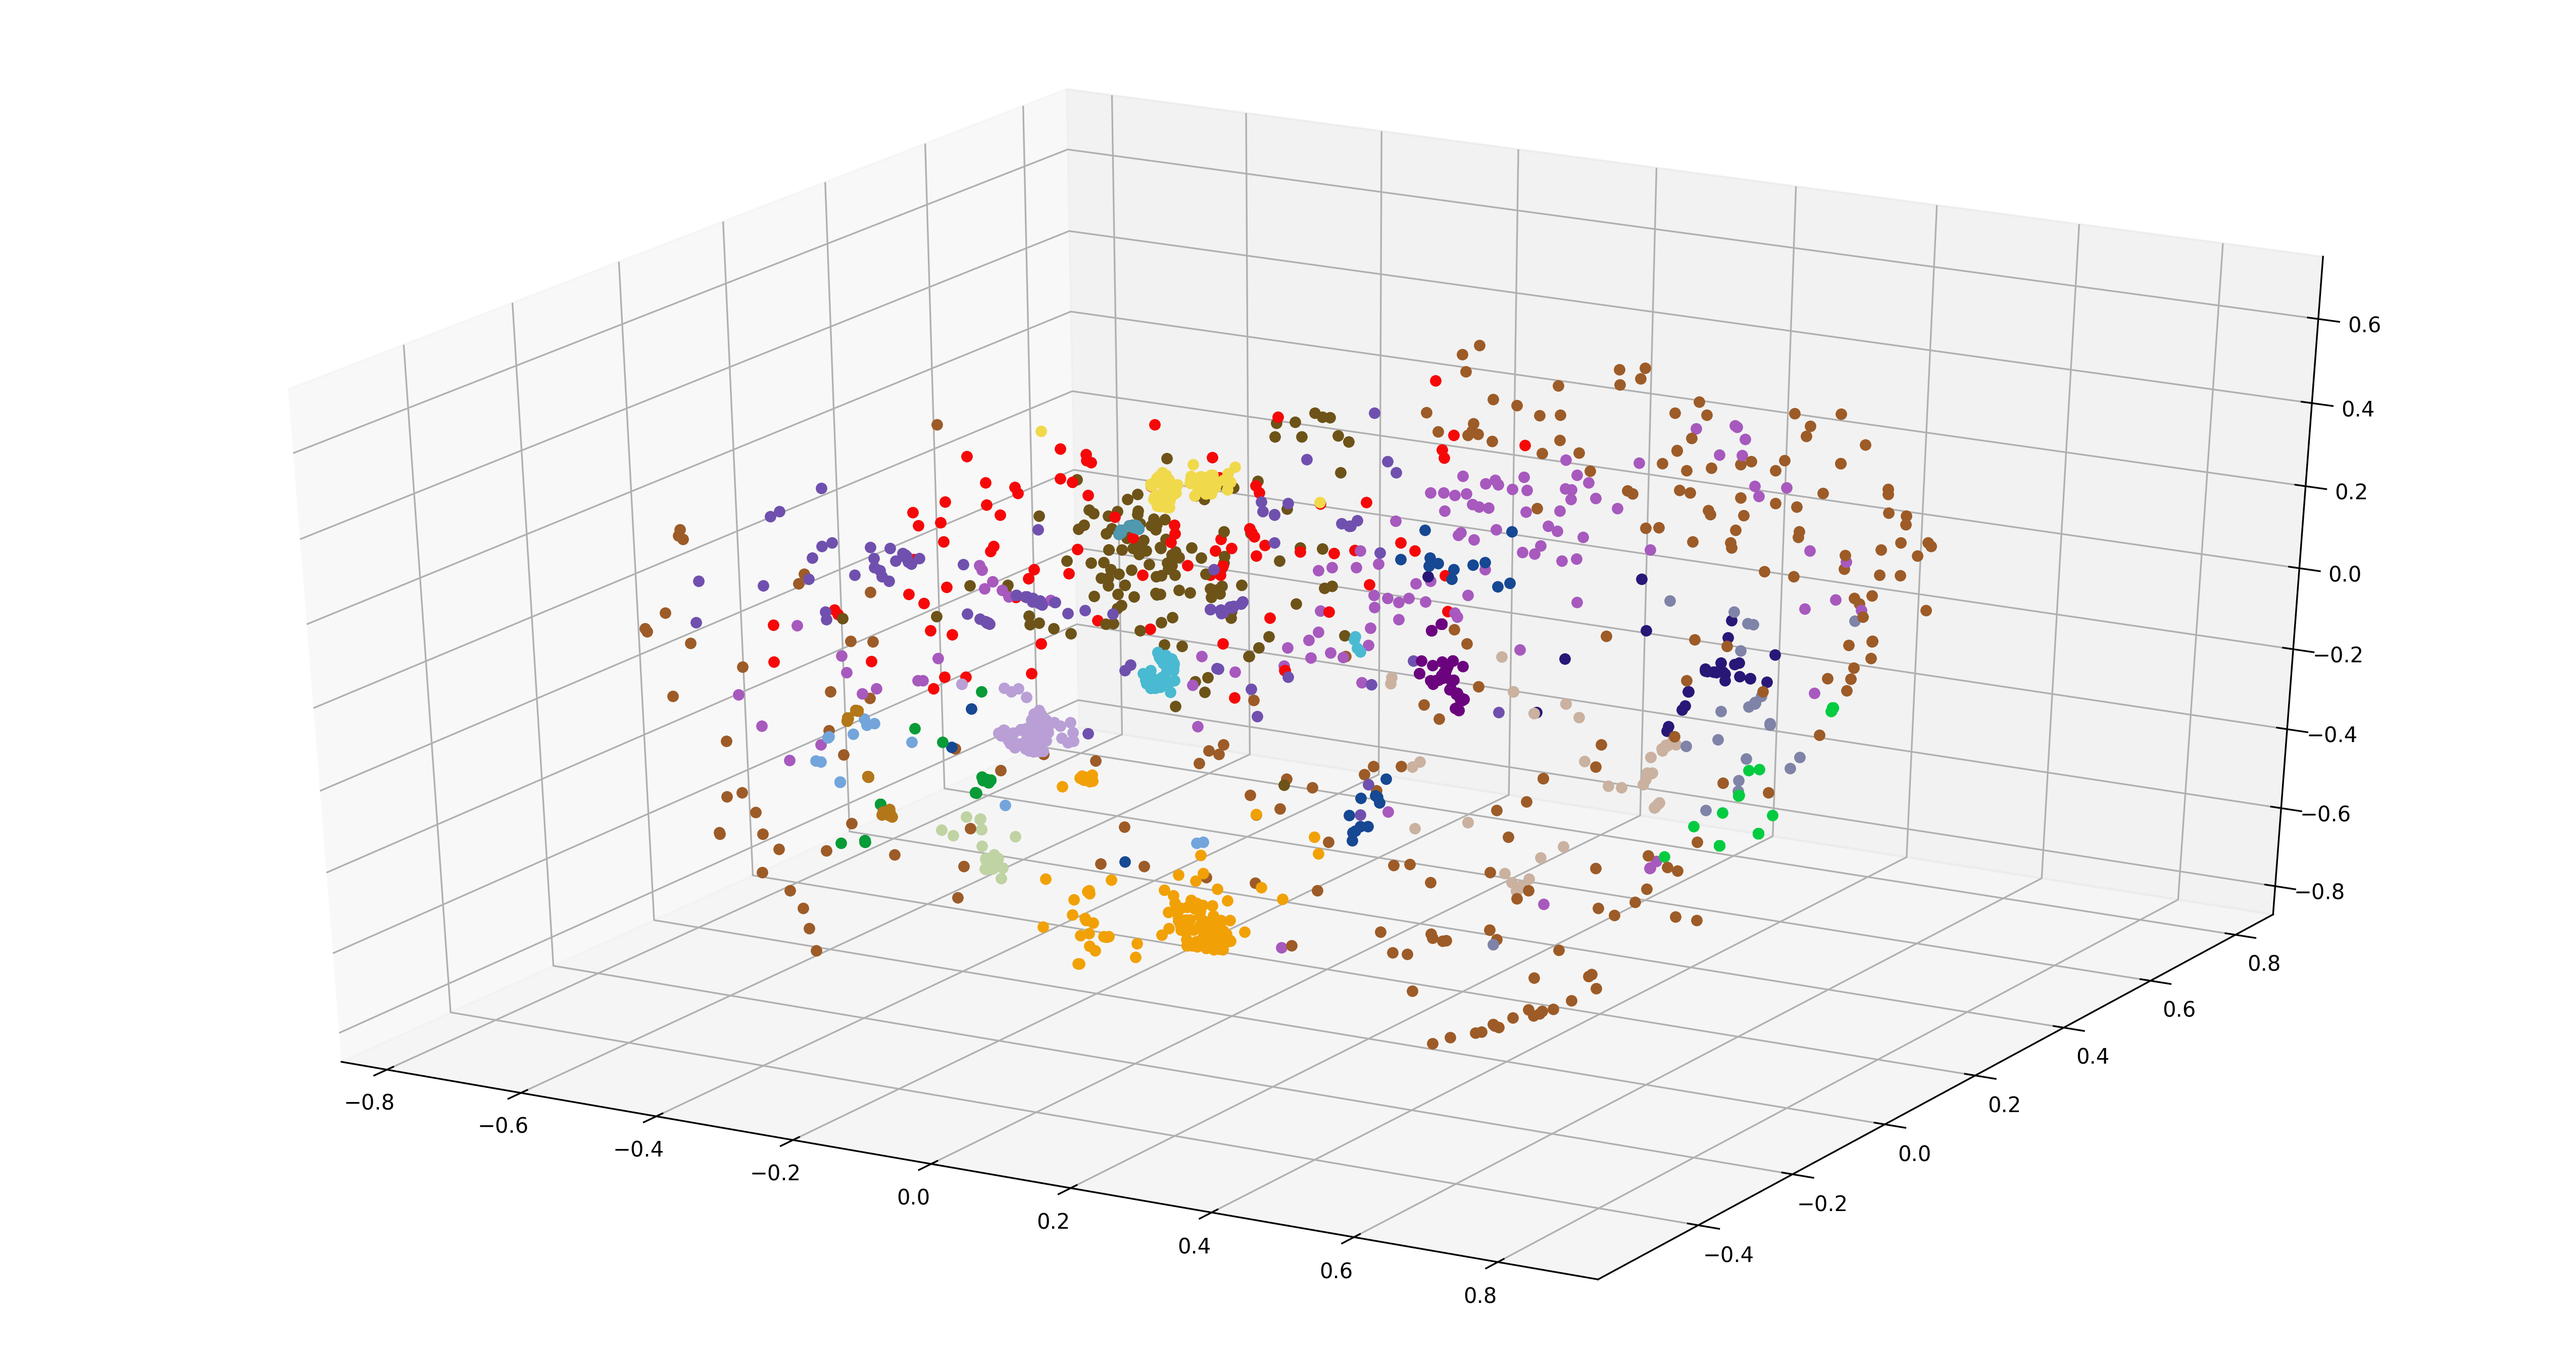
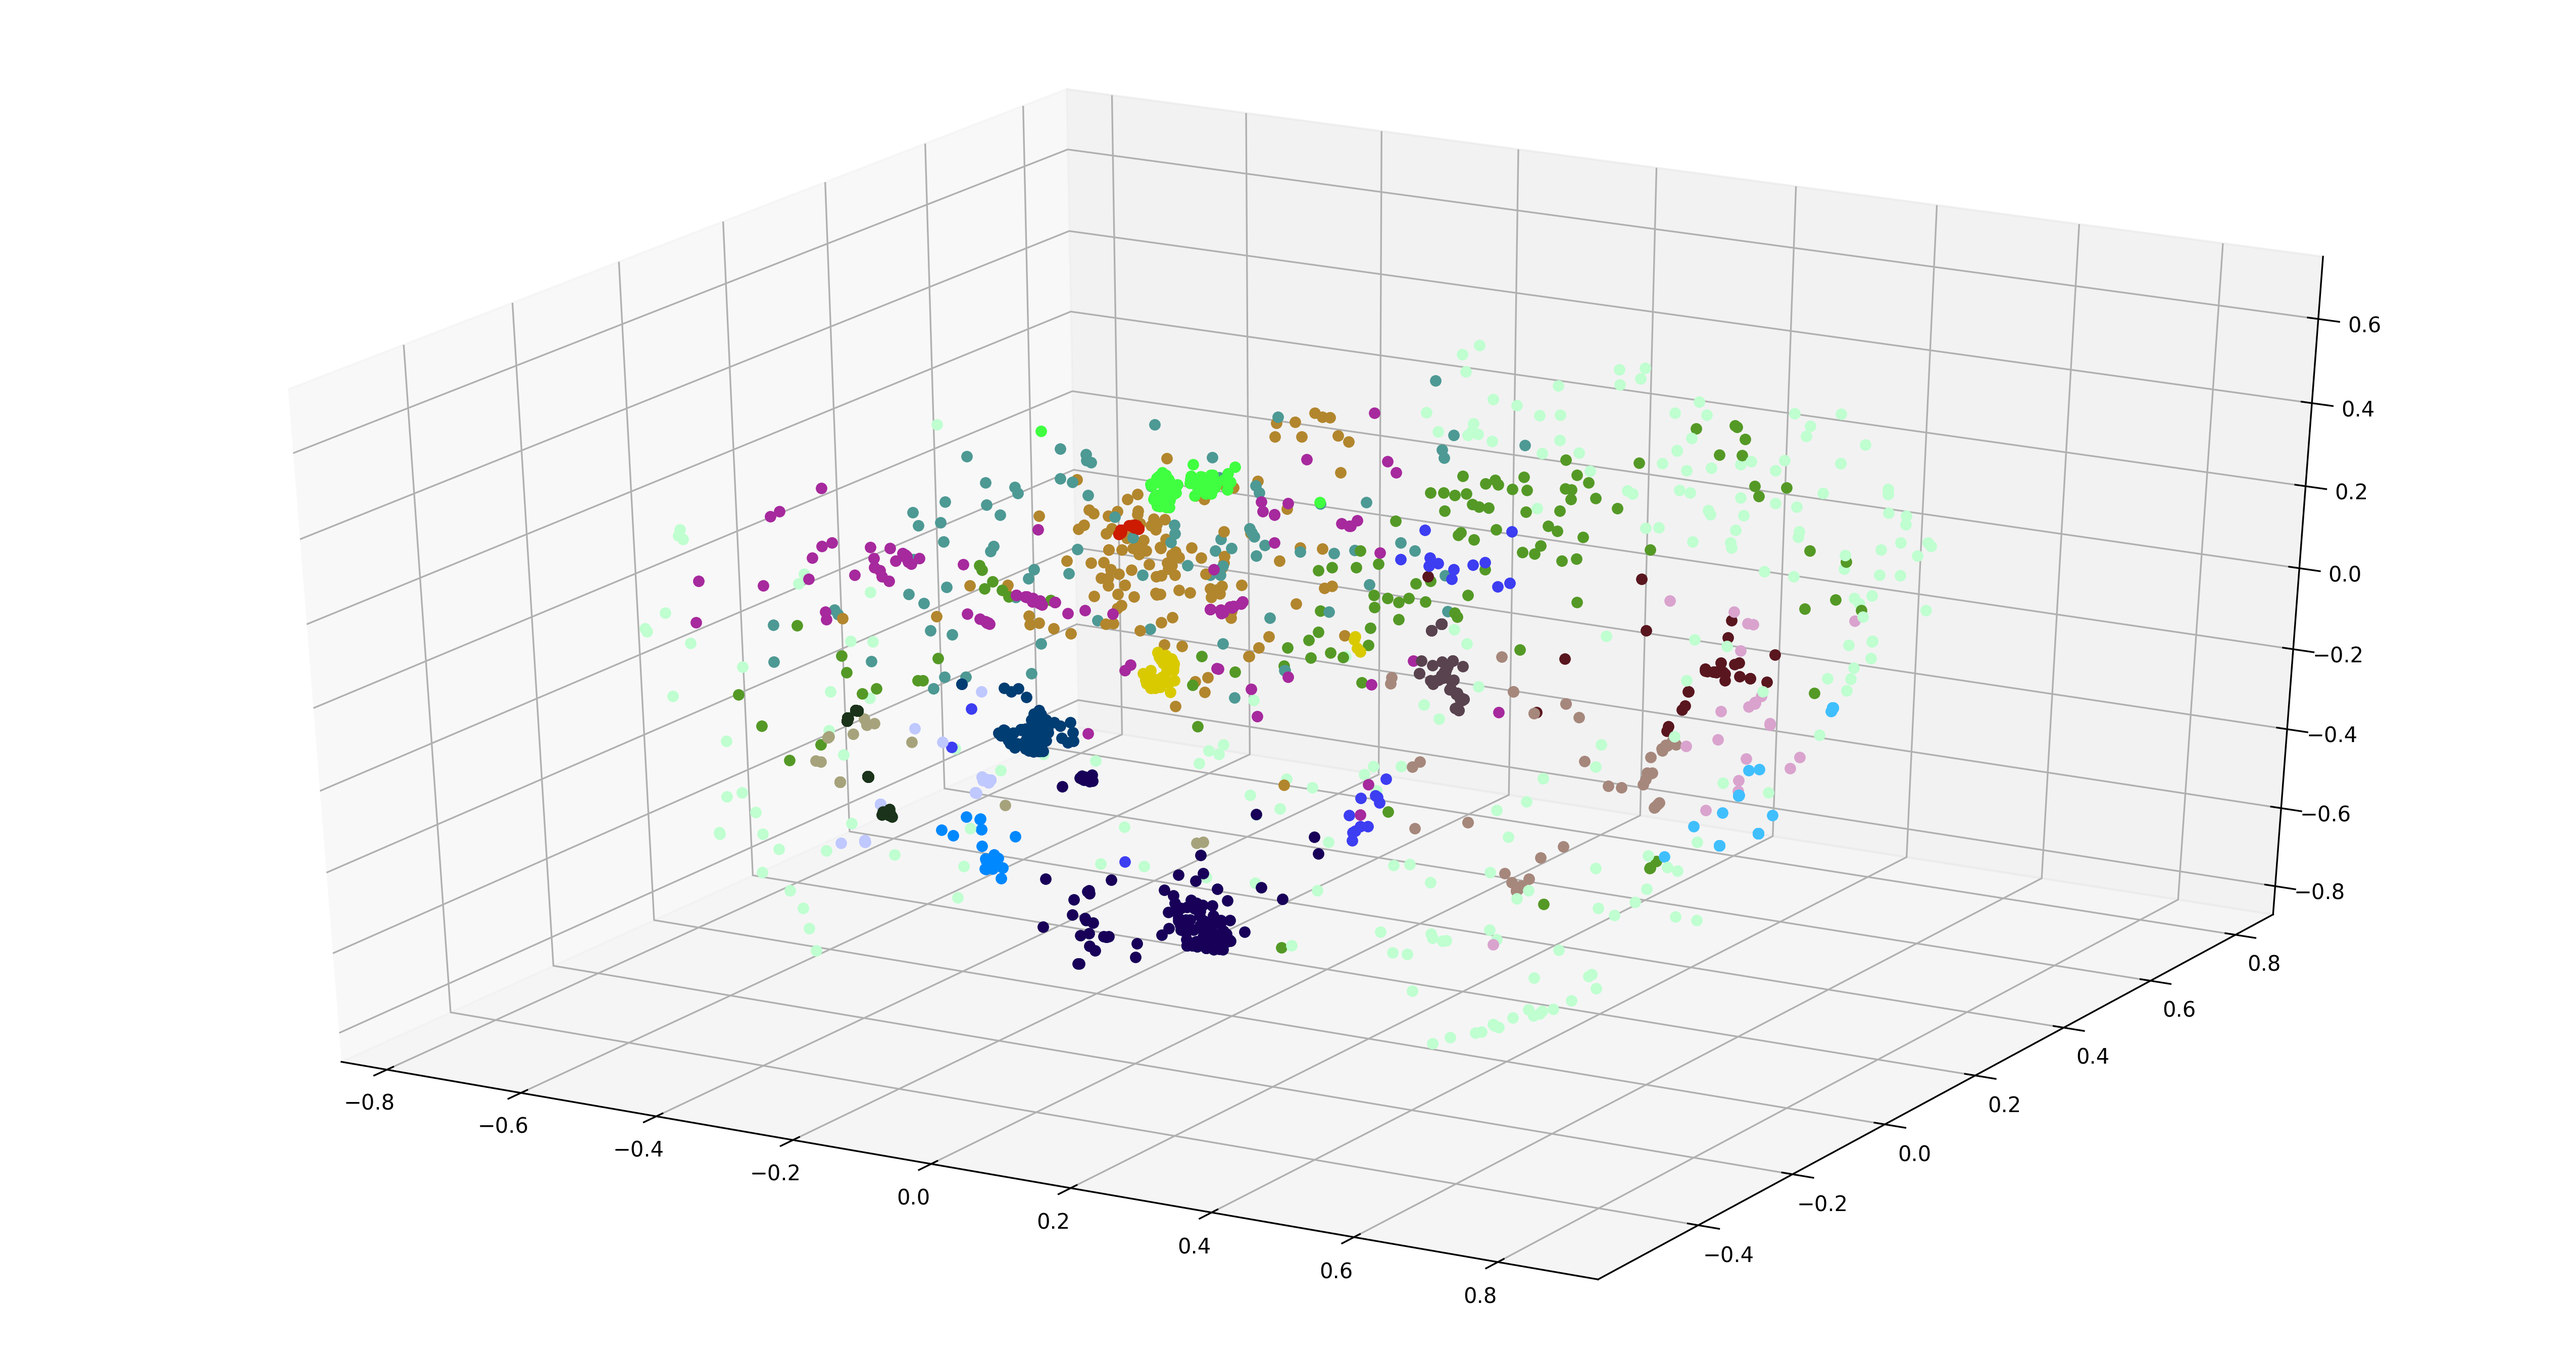
new color scheme

diff --git a/document_clustering_attempt2.py b/document_clustering_attempt2.py
@@ -207,15 +207,17 @@ def main_function(num_clusters, retokenize, corpusdir):
     df = pd.DataFrame(dict(x=xs, y=ys, z=zs, label=clusters, filename=fnames)) 
     # group by cluster
     groups = df.groupby('label')
-
+    colors = ["#cc1b00", "#d9ca00", "#40ff40", "#4d9994", "#003d73", "#180059", "#59434f", "#a6877c", "#a6a37c", "#1a331a", "#40bfff", "#bfc8ff", "#a6299d", "#59161f", "#b2862d", "#549926", "#bfffd0", "#0088ff", "#3d3df2", "#d9a3ce", "#ff8091"]
     # for each cluster, plot the files in that cluster
+    i = 0
     for name, group in groups:
         # color = ('#%06X' % random.randint(0,256**3-1))
-        color = np.random.rand(3,)
+        # color = np.random.rand(3,)
         for t in range(group.shape[0]):
             ax.scatter(group.x.iloc[t], group.y.iloc[t], group.z.iloc[t], 
-                c=color, marker='o')
+                c=colors[i], marker='o')
             ax.set_aspect('auto')
+        i+=1
 
     plt.savefig("3D_document_cluster", dpi=300)
     print("scatter plot written to \"3D_document_cluster.png\"")
